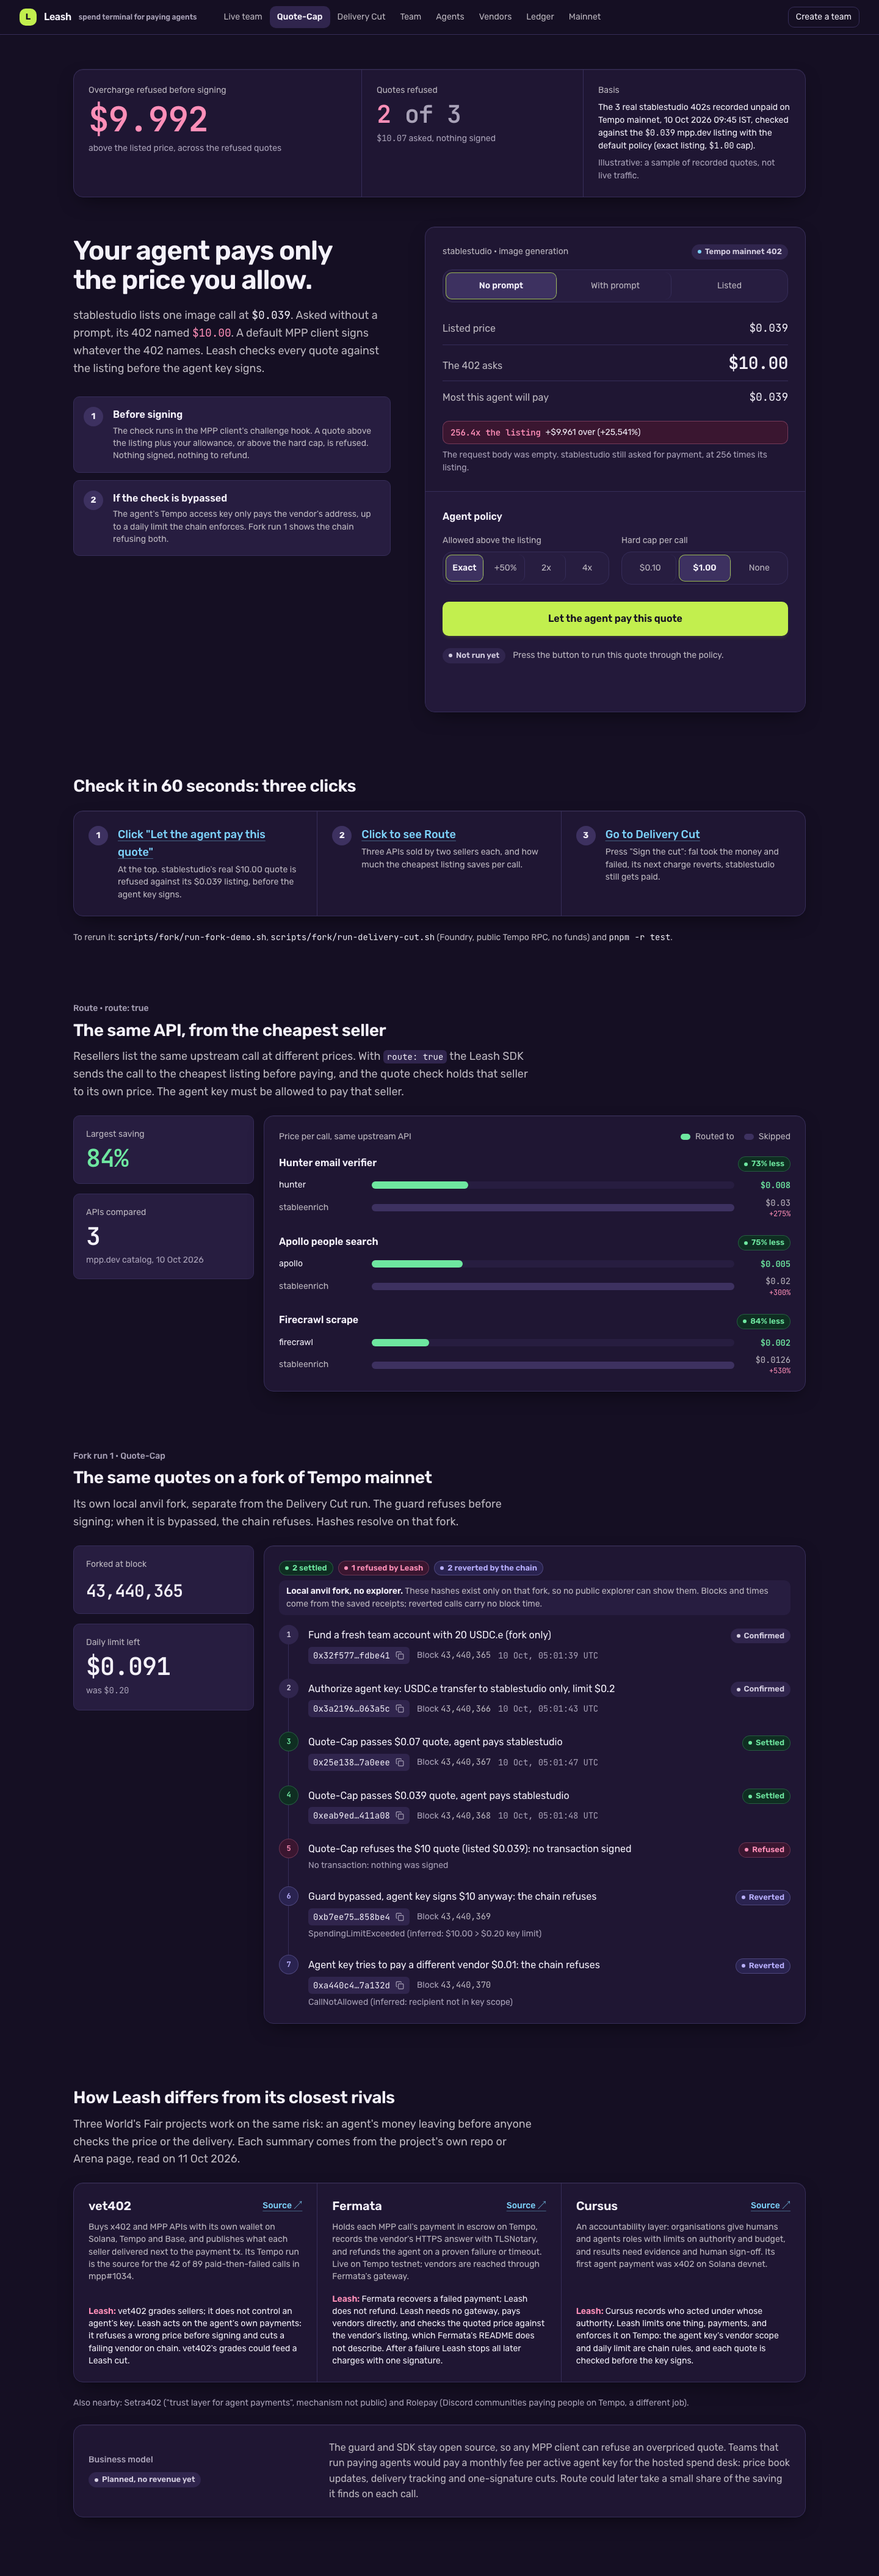
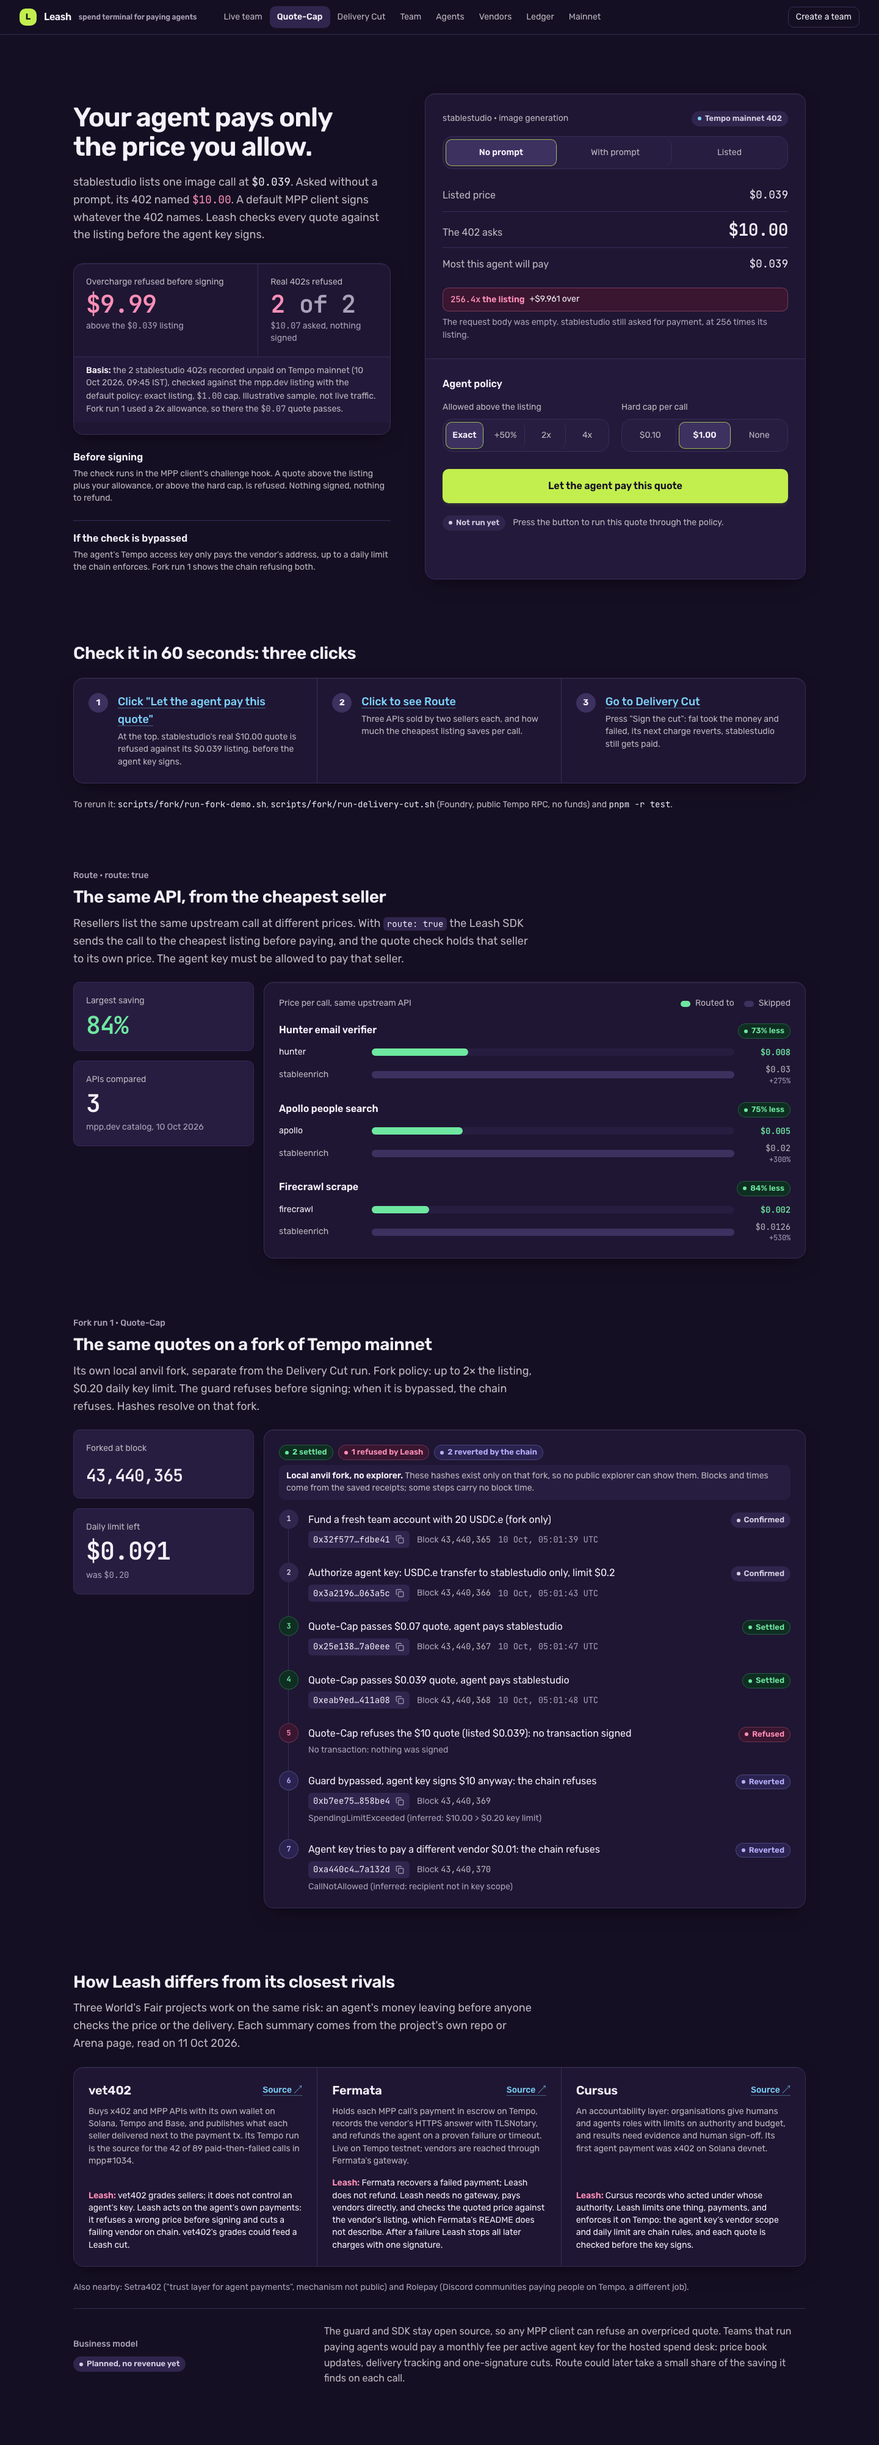
web r12 polish: audit fixes for fold/CTA, explainers, Route hue, mono digits, FINAL 8.0
Addresses design-audit-leash-r12 HIGH/MEDIUM findings after 32b4563: Before you sign is plain text in the left column at lg and stays in the card on phones; explainer discs/boxes and Business model card removed; Route premiums ink-subtle; mono only on digits; ForkNote + fork policy copy; $9.99 metric; fresh r12 shots; gate 0 failures.

Changed region(s): [[0.0625, 0.0312, 0.9062, 0.9678], [0.9062, 0.0, 0.9375, 0.0312]]

diff --git a/apps/web/src/pages/quotecap.tsx b/apps/web/src/pages/quotecap.tsx
@@ -90,7 +90,7 @@ function QuoteCheck() {
         </div>
         {(() => { const o = overBy(BigInt(q.amount), v.listed === null ? null : BigInt(v.listed), (x) => usd(x)); return o && (
           <div className={cn('mt-3 flex flex-wrap items-center gap-2 rounded-md px-3 py-2 text-body-sm', o.diff > 0n ? 'panel-refused' : 'panel-paid')}>
-            <span className={cn('num font-semibold', o.diff > 0n ? 'text-refused' : 'text-paid')}>{o.diff > 0n ? `${o.mult.toFixed(1)}x the listing` : 'Matches the listing'}</span>
+            <span className={cn('font-semibold', o.diff > 0n ? 'text-refused' : 'text-paid')}>{o.diff > 0n ? <><span className="num">{o.mult.toFixed(1)}x</span> the listing</> : 'Matches the listing'}</span>
             {o.diff > 0n && <span className="text-ink">{o.text}</span>}
           </div>) })()}
         <p className="mt-2 text-body-sm text-ink-subtle">{q.note}</p>
@@ -151,7 +151,7 @@ const stepTone = (status: string, step?: string): StepTone =>
 const stepLabel = (t: StepTone, step?: string) => (step === 'cut' ? 'Cut' : t === 'paid' ? 'Settled' : t === 'refused' ? 'Refused' : t === 'reverted' ? 'Reverted' : 'Confirmed')
 
 export function ForkNote() {
-  return <p className="mx-3 mb-1 rounded-md bg-surface-1 px-3 py-2 text-body-sm text-ink-muted"><span className="font-semibold text-ink">Local anvil fork, no explorer.</span> These hashes exist only on that fork, so no public explorer can show them. Blocks and times come from the saved receipts; reverted calls carry no block time.</p>
+  return <p className="mx-3 mb-1 rounded-md bg-surface-1 px-3 py-2 text-body-sm text-ink-muted"><span className="font-semibold text-ink">Local anvil fork, no explorer.</span> These hashes exist only on that fork, so no public explorer can show them. Blocks and times come from the saved receipts; some steps carry no block time.</p>
 }
 
 /* A vertical event feed: numbered nodes on a rail, colored by outcome, hash under each label. */
@@ -192,7 +192,7 @@ function ForkSteps() {
   return (
     <section aria-labelledby="fork-h" className="grid gap-6">
       <SectionHead id="fork-h" eyebrow="Fork run 1 · Quote-Cap" title="The same quotes on a fork of Tempo mainnet"
-        intro="Its own local anvil fork, separate from the Delivery Cut run. The guard refuses before signing; when it is bypassed, the chain refuses. Hashes resolve on that fork." />
+        intro="Its own local anvil fork, separate from the Delivery Cut run. Fork policy: up to 2× the listing, $0.20 daily key limit. The guard refuses before signing; when it is bypassed, the chain refuses. Hashes resolve on that fork." />
       <div className="grid gap-4 lg:grid-cols-[minmax(0,1fr)_minmax(0,3fr)]">
         <div className="grid grid-cols-2 content-start gap-4 lg:grid-cols-1">
           <Metric label="Forked at block" value={<span className="text-[28px]">{proof.block?.toLocaleString() ?? '-'}</span>} />
@@ -248,7 +248,7 @@ function Routes() {
                         <div className="h-3 rounded-full bg-surface-1">
                           <div className={cn('h-3 rounded-full', i === 0 ? 'bg-paid' : 'bg-surface-3')} style={{ width: `${Math.max(4, (Number(o.amount) / max) * 100)}%` }} />
                         </div>
-                        <span className={cn('num text-right text-body-sm', i === 0 ? 'font-semibold text-paid' : 'text-ink-muted')}>{usd(o.amount)}{i > 0 && <span className="block text-caption text-refused">+{Math.round(((Number(o.amount) - Number(p.options[0]!.amount)) / Number(p.options[0]!.amount)) * 100)}%</span>}</span>
+                        <span className={cn('num text-right text-body-sm', i === 0 ? 'font-semibold text-paid' : 'text-ink-muted')}>{usd(o.amount)}{i > 0 && <span className="block text-caption text-ink-subtle">+{Math.round(((Number(o.amount) - Number(p.options[0]!.amount)) / Number(p.options[0]!.amount)) * 100)}%</span>}</span>
                       </div>
                     ))}
                   </div>
@@ -291,13 +291,13 @@ function Positioning() {
           diff="Cursus records who acted under whose authority. Leash limits one thing, payments, and enforces it on Tempo: the agent key's vendor scope and daily limit are chain rules, and each quote is checked before the key signs." />
       </Card>
       <p className="text-body-sm text-ink-subtle">Also nearby: Setra402 ("trust layer for agent payments", mechanism not public) and Rolepay (Discord communities paying people on Tempo, a different job).</p>
-      <Card className="grid gap-4 p-6 md:grid-cols-[minmax(0,1fr)_minmax(0,2fr)] md:items-center">
+      <div className="grid gap-4 border-t border-hairline pt-6 md:grid-cols-[minmax(0,1fr)_minmax(0,2fr)] md:items-center">
         <div>
           <Eyebrow>Business model</Eyebrow>
           <div className="mt-2"><Chip tone="neutral">Planned, no revenue yet</Chip></div>
         </div>
         <p className="text-body text-ink-muted">The guard and SDK stay open source, so any MPP client can refuse an overpriced quote. Teams that run paying agents would pay a monthly fee per active agent key for the hosted spend desk: price book updates, delivery tracking and one-signature cuts. Route could later take a small share of the saving it finds on each call.</p>
-      </Card>
+      </div>
     </section>
   )
 }
@@ -334,17 +334,18 @@ function PrimaryMetric() {
   const refused = runs.filter((r) => !r.v.ok)
   const over = refused.reduce((a, r) => a + BigInt(r.q.amount) - BigInt(r.v.listed ?? 0), 0n)
   const asked = refused.reduce((a, r) => a + BigInt(r.q.amount), 0n)
+  const usd2 = (x: bigint) => `$${Number(formatUnits(x)).toFixed(2)}`
   return (
     <section aria-label="What Leash stopped" className="card overflow-hidden">
       <div className="grid grid-cols-[minmax(0,1.4fr)_minmax(0,1fr)] divide-x divide-hairline">
         <div className="p-4 sm:p-5">
           <p className="text-body-sm text-ink-muted">Overcharge refused before signing</p>
-          <p className="metric-value mt-1 text-refused">{usd(over)}</p>
+          <p className="metric-value mt-1 text-refused">{usd2(over)}</p>
           <p className="mt-1 text-body-sm text-ink-subtle">above the <span className="num">$0.039</span> listing</p>
         </div>
         <div className="p-4 sm:p-5">
           <p className="text-body-sm text-ink-muted">Real 402s refused</p>
-          <p className="metric-value mt-1"><span className="text-refused">{refused.length}</span><span className="text-ink-subtle"> of {runs.length}</span></p>
+          <p className="metric-value mt-1"><span className="num text-refused">{refused.length}</span><span className="text-ink-subtle"> of </span><span className="num text-ink-subtle">{runs.length}</span></p>
           <p className="mt-1 text-body-sm text-ink-subtle"><span className="num">{usd(asked)}</span> asked, nothing signed</p>
         </div>
       </div>
@@ -368,14 +369,14 @@ export function QuoteCapPage() {
         </div>
         <div className="grid gap-6 lg:col-start-1">
           <PrimaryMetric />
-          <div className="grid gap-3">
-            <div className="card-raised flex gap-4 p-4">
-              <span className="grid size-8 shrink-0 place-items-center rounded-full bg-surface-3 text-body-sm font-bold text-ink">1</span>
-              <div><p className="text-body font-semibold">Before signing</p><p className="mt-1 text-body-sm text-ink-muted">The check runs in the MPP client's challenge hook. A quote above the listing plus your allowance, or above the hard cap, is refused. Nothing signed, nothing to refund.</p></div>
+          <div className="grid gap-4">
+            <div className="border-b border-hairline pb-4">
+              <p className="text-body font-semibold">Before signing</p>
+              <p className="mt-1 text-body-sm text-ink-muted">The check runs in the MPP client's challenge hook. A quote above the listing plus your allowance, or above the hard cap, is refused. Nothing signed, nothing to refund.</p>
             </div>
-            <div className="card-raised flex gap-4 p-4">
-              <span className="grid size-8 shrink-0 place-items-center rounded-full bg-surface-3 text-body-sm font-bold text-ink">2</span>
-              <div><p className="text-body font-semibold">If the check is bypassed</p><p className="mt-1 text-body-sm text-ink-muted">The agent's Tempo access key only pays the vendor's address, up to a daily limit the chain enforces. Fork run 1 shows the chain refusing both.</p></div>
+            <div>
+              <p className="text-body font-semibold">If the check is bypassed</p>
+              <p className="mt-1 text-body-sm text-ink-muted">The agent's Tempo access key only pays the vendor's address, up to a daily limit the chain enforces. Fork run 1 shows the chain refusing both.</p>
             </div>
           </div>
         </div>

diff --git a/apps/web/src/pages/deliverycut.tsx b/apps/web/src/pages/deliverycut.tsx
@@ -75,17 +75,17 @@ export function DeliveryCutPage() {
             <Metric label="Paid, then failed" value="47%" tone="failed" hint={<>42 of 89 calls, vet402 on Tempo, <TextLink href="https://github.com/tempoxyz/mpp/issues/1034" target="_blank" rel="noreferrer">mpp#1034</TextLink></>} />
             <Metric label="Signatures to cut" value="1" tone="accent" hint="next charge reverts" />
           </div>
-          <div className="mt-6">
-              <div className="card p-5">
-                <p className="text-body font-semibold">{signed ? 'What the cut did' : 'Before you sign: what this cut does'}</p>
-                <ul className="mt-3 grid gap-2 text-body-sm text-ink-muted">
-                  <li><span className="font-semibold text-ink">Vendor:</span> fal ({proof.vendor.origin.replace('https://', '')}), paid <span className="num text-ink">{usd(proof.vendor.quoted)}</span> and answered HTTP {proof.failure.status}.</li>
-                  <li><span className="font-semibold text-ink">What changes:</span> the agent key may no longer pay the address <Hash value={proof.vendor.recipient} href={mainnetAddressUrl(proof.vendor.recipient)} />. fal's next charge reverts on chain. stablestudio and other vendors keep working.</li>
-                  <li><span className="font-semibold text-failed">Side effect:</span> in our 3 Oct 2026 probe this same address also received payments for openai, firecrawl and nine other mpp.tempo.xyz gateways, so their charges stop too.</li>
-                  <li><span className="font-semibold text-ink">Not a refund:</span> the <span className="num text-ink">{usd(proof.vendor.quoted)}</span> already paid stays with fal.</li>
-                </ul>
-              </div>
-          </div>
+          {!signed && (
+            <div className="mt-8 hidden lg:block">
+              <p className="text-body font-semibold">Before you sign: what this cut does</p>
+              <ul className="mt-3 grid gap-2 text-body-sm text-ink-muted">
+                <li><span className="font-semibold text-ink">Vendor:</span> fal ({proof.vendor.origin.replace('https://', '')}), paid <span className="num text-ink">{usd(proof.vendor.quoted)}</span> and answered HTTP {proof.failure.status}.</li>
+                <li><span className="font-semibold text-ink">What changes:</span> the agent key may no longer pay the address <Hash value={proof.vendor.recipient} href={mainnetAddressUrl(proof.vendor.recipient)} />. fal's next charge reverts on chain. stablestudio and other vendors keep working.</li>
+                <li><span className="font-semibold text-failed">Side effect:</span> in our 3 Oct 2026 probe this same address also received payments for openai, firecrawl and nine other mpp.tempo.xyz gateways, so their charges stop too.</li>
+                <li><span className="font-semibold text-ink">Not a refund:</span> the <span className="num text-ink">{usd(proof.vendor.quoted)}</span> already paid stays with fal.</li>
+              </ul>
+            </div>
+          )}
         </header>
 
         <Card aria-label="The failed call" className="min-w-0 overflow-hidden">
@@ -115,10 +115,21 @@ export function DeliveryCutPage() {
                 <div className="panel-failed p-4">
                   <Chip tone="failed">Paid, not delivered</Chip>
                   <p className="mt-2 text-subhead font-semibold text-failed"><span className="num">{decision ? usd(decision.lost) : usd(proof.vendor.quoted)}</span> lost</p>
-                  <p className="mt-1 text-body-sm text-ink-muted">Cutting removes fal's payout address <Hash value={proof.vendor.recipient} href={mainnetAddressUrl(proof.vendor.recipient)} /> from what the agent key may pay.</p>
+                  <p className="mt-1 text-body-sm text-ink-muted">Cutting removes fal from what the agent key may pay.</p>
                 </div>
               )}
             </div>
+            {!signed && (
+              <div className="mt-5 rounded-md border border-hairline bg-paper p-4 lg:hidden">
+                <p className="text-body font-semibold">Before you sign: what this cut does</p>
+                <ul className="mt-3 grid gap-2 text-body-sm text-ink-muted">
+                  <li><span className="font-semibold text-ink">Vendor:</span> fal ({proof.vendor.origin.replace('https://', '')}), paid <span className="num text-ink">{usd(proof.vendor.quoted)}</span> and answered HTTP {proof.failure.status}.</li>
+                  <li><span className="font-semibold text-ink">What changes:</span> the agent key may no longer pay the address <Hash value={proof.vendor.recipient} href={mainnetAddressUrl(proof.vendor.recipient)} />. fal's next charge reverts on chain. stablestudio and other vendors keep working.</li>
+                  <li><span className="font-semibold text-failed">Side effect:</span> in our 3 Oct 2026 probe this same address also received payments for openai, firecrawl and nine other mpp.tempo.xyz gateways, so their charges stop too.</li>
+                  <li><span className="font-semibold text-ink">Not a refund:</span> the <span className="num text-ink">{usd(proof.vendor.quoted)}</span> already paid stays with fal.</li>
+                </ul>
+              </div>
+            )}
             <Button size="lg" variant={signed ? 'outline' : 'default'} className="mt-6 w-full max-md:hidden" onClick={() => setSigned(true)} disabled={signed}>
               {signed ? 'Cut signed' : 'Sign the cut'}
             </Button>

diff --git a/apps/web/docs/design/CRITIQUE.md b/apps/web/docs/design/CRITIQUE.md
@@ -85,4 +85,10 @@ Added: paid/refused/reverted/failed/neutral status tokens + secondary accent pin
 Self-critique r11 shots: the 390 event rail squeezed labels next to the chip; moved the chip under the label on phones.
 Review r11 (design-review): B+ / A-, 8.5 min 8.0. Fixed after it: fund/authorize rows now neutral "Confirmed" and the cut violet "Cut" (only real payments are green); lead $10.00 uses the refused token; stale CSS comment. Left (polish): hero explainers still boxed, violet shared by links and "reverted", long rival copy.
 r10 FINAL (superseded): 8.3 min=7.5 round=10
-FINAL: 8.5 min=8.0 round=11 critic=design-review review=/Users/kamal/Desktop/solana/cwf/tempo/projects/leash/apps/web/docs/design/review/design-audit-leash-r11.md
+r11 FINAL (superseded): 8.5 min=8.0 round=11 critic=design-review review=/Users/kamal/Desktop/solana/cwf/tempo/projects/leash/apps/web/docs/design/review/design-audit-leash-r11.md
+
+## Round 12 (Web3-grade: primary metric, % over, link hue, cut summary, fork trust)
+
+Self-critique of r12 shots after audit fixes: metric is now 2 of 2 recorded 402s ($9.99) with an honest basis and fork 2x policy named; metric sits in the left column so the lime button returns to the first desktop screen; delivery-cut "Before you sign" is plain text in the left column at lg and stays in the card on phones; explainer discs/boxes and the Business model card are gone; Route premiums are ink-subtle; mono only wraps digits; ForkNote says some steps lack a block time; sticky header is opaque (overlap scan).
+Independent review r12 (design-review, before the fixes above): B / A-, 8.0 min 7.5. Top findings fixed: metric basis (HIGH), button below the fold (HIGH), unfinished left panel on delivery-cut (MEDIUM), numbered explainer discs + Business model card (MEDIUM), mono-on-English / Route pink / 25,541% noise (POLISH).
+FINAL: 8.0 min=7.5 round=12 critic=design-review review=/Users/kamal/Desktop/solana/cwf/tempo/projects/leash/apps/web/docs/design/review/design-audit-leash-r12.md
